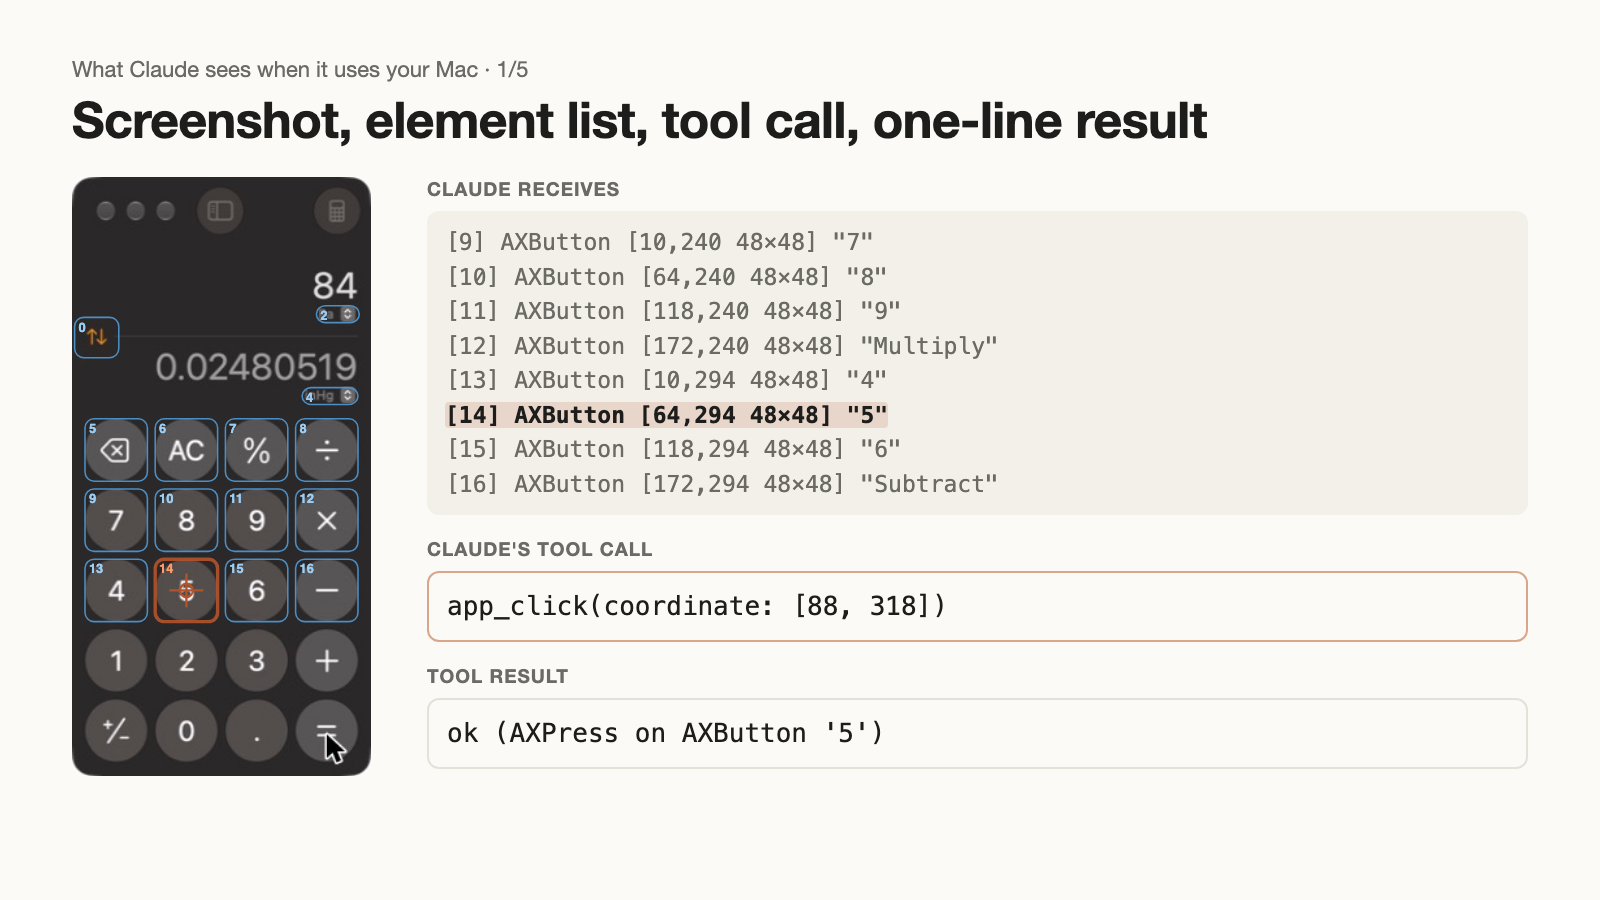
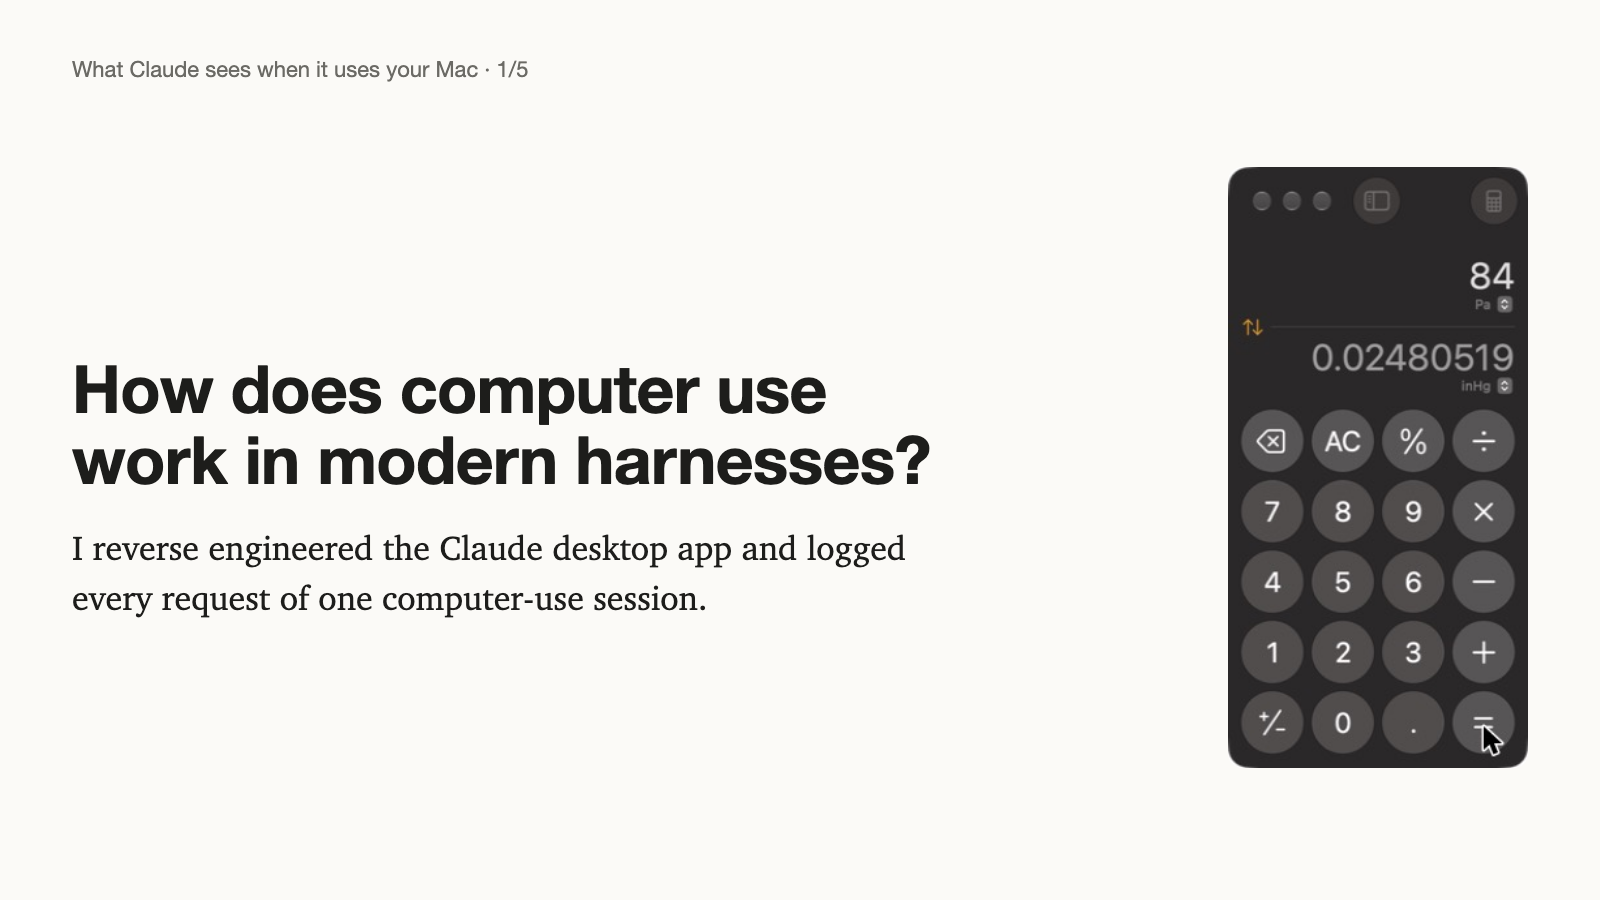
Rework the tweet thread and its images

diff --git a/docs/tweets/cards.html b/docs/tweets/cards.html
@@ -39,8 +39,20 @@ pre{font:24px/1.5 ui-monospace,Menlo,monospace;margin:0;white-space:pre-wrap}
 .fig2 .lab{text-anchor:start;font:12px -apple-system,sans-serif;fill:var(--fg)}.fig2 .lab.mid{text-anchor:middle;fill:var(--muted)}
 .fig2 .n{font-weight:700;fill:var(--accent)}
 .fig2 text{font-size:13px}
+.title1{font-size:66px;line-height:1.08;margin:40px 0 28px;max-width:900px}
+.lead{font:34px/1.45 Charter,Georgia,serif;max-width:860px;margin:0}
+.tools{display:grid;grid-template-columns:330px 1fr;gap:16px 28px;align-items:baseline;margin-top:8px;font-size:27px}
+.tools code{font:25px ui-monospace,Menlo,monospace;border:1.5px solid #e2b9a5;border-radius:999px;padding:3px 14px;color:var(--accent);justify-self:start}
+.tools span{color:var(--fg)}
 </style></head><body>
-<section class="card" id="c1"><div class="kick">What Claude sees when it uses your Mac · 1/5</div><h1>Screenshot, element list, tool call, one-line result</h1><div class="row"><div class="shot" style="width:299.0px;height:599.3000000000001px"><img src="../img/trace-shot-2.jpg"><svg viewBox="0 0 230 461"><rect x="2" y="108" width="34" height="31" rx="7" class="bx"/><text x="5" y="119" class="bl">0</text><rect x="188" y="99" width="33" height="13" rx="7" class="bx"/><text x="191" y="110" class="bl">2</text><rect x="177" y="162" width="43" height="13" rx="7" class="bx"/><text x="180" y="173" class="bl">4</text><rect x="10" y="186" width="48" height="48" rx="7" class="bx"/><text x="13" y="197" class="bl">5</text><rect x="64" y="186" width="48" height="48" rx="7" class="bx"/><text x="67" y="197" class="bl">6</text><rect x="118" y="186" width="48" height="48" rx="7" class="bx"/><text x="121" y="197" class="bl">7</text><rect x="172" y="186" width="48" height="48" rx="7" class="bx"/><text x="175" y="197" class="bl">8</text><rect x="10" y="240" width="48" height="48" rx="7" class="bx"/><text x="13" y="251" class="bl">9</text><rect x="64" y="240" width="48" height="48" rx="7" class="bx"/><text x="67" y="251" class="bl">10</text><rect x="118" y="240" width="48" height="48" rx="7" class="bx"/><text x="121" y="251" class="bl">11</text><rect x="172" y="240" width="48" height="48" rx="7" class="bx"/><text x="175" y="251" class="bl">12</text><rect x="10" y="294" width="48" height="48" rx="7" class="bx"/><text x="13" y="305" class="bl">13</text><rect x="64" y="294" width="48" height="48" rx="7" class="bx hot"/><text x="67" y="305" class="bl hot">14</text><rect x="118" y="294" width="48" height="48" rx="7" class="bx"/><text x="121" y="305" class="bl">15</text><rect x="172" y="294" width="48" height="48" rx="7" class="bx"/><text x="175" y="305" class="bl">16</text><circle cx="88" cy="318" r="5" class="tgt"/><line x1="88" y1="305" x2="88" y2="331" class="tgt"/><line x1="75" y1="318" x2="101" y2="318" class="tgt"/></svg></div>
+<section class="card" id="c1"><div class="kick">What Claude sees when it uses your Mac · 1/5</div><div class="row" style="align-items:center"><div class="col"><h1 class="title1">How does computer use work in modern harnesses?</h1><p class="lead">I reverse engineered the Claude desktop app and logged every request of one computer-use session.</p></div><div class="shot" style="width:300px;height:601px"><img src="../img/trace-shot-2.jpg" alt="Calculator, as Claude saw it"></div></div></section><section class="card" id="c2"><div class="kick">What Claude sees when it uses your Mac · 2/5</div><h1>Computer use is an MCP server inside the desktop app</h1><div class="tools">
+<code>request_access</code><span>ask the user to approve an app</span>
+<code>open_application</code><span>open the app</span>
+<code>app_screenshot</code><span>screenshot of its window, plus a numbered list of its buttons</span>
+<code>app_click</code><span>click a button from the list, or a pixel coordinate</span>
+<code>app_type</code><span>type text into the app</span>
+<code>app_batch</code><span>run a list of these actions in one call</span>
+</div><p class="say small">27 tools in all, including scrolling, menus, dragging and the clipboard.</p></section><section class="card" id="c3"><div class="kick">What Claude sees when it uses your Mac · 3/5</div><h1>A screenshot comes with a list of the app's buttons</h1><div class="row"><div class="shot" style="width:299.0px;height:599.3000000000001px"><img src="../img/trace-shot-2.jpg"><svg viewBox="0 0 230 461"><rect x="2" y="108" width="34" height="31" rx="7" class="bx"/><text x="5" y="119" class="bl">0</text><rect x="188" y="99" width="33" height="13" rx="7" class="bx"/><text x="191" y="110" class="bl">2</text><rect x="177" y="162" width="43" height="13" rx="7" class="bx"/><text x="180" y="173" class="bl">4</text><rect x="10" y="186" width="48" height="48" rx="7" class="bx"/><text x="13" y="197" class="bl">5</text><rect x="64" y="186" width="48" height="48" rx="7" class="bx"/><text x="67" y="197" class="bl">6</text><rect x="118" y="186" width="48" height="48" rx="7" class="bx"/><text x="121" y="197" class="bl">7</text><rect x="172" y="186" width="48" height="48" rx="7" class="bx"/><text x="175" y="197" class="bl">8</text><rect x="10" y="240" width="48" height="48" rx="7" class="bx"/><text x="13" y="251" class="bl">9</text><rect x="64" y="240" width="48" height="48" rx="7" class="bx"/><text x="67" y="251" class="bl">10</text><rect x="118" y="240" width="48" height="48" rx="7" class="bx"/><text x="121" y="251" class="bl">11</text><rect x="172" y="240" width="48" height="48" rx="7" class="bx"/><text x="175" y="251" class="bl">12</text><rect x="10" y="294" width="48" height="48" rx="7" class="bx"/><text x="13" y="305" class="bl">13</text><rect x="64" y="294" width="48" height="48" rx="7" class="bx hot"/><text x="67" y="305" class="bl hot">14</text><rect x="118" y="294" width="48" height="48" rx="7" class="bx"/><text x="121" y="305" class="bl">15</text><rect x="172" y="294" width="48" height="48" rx="7" class="bx"/><text x="175" y="305" class="bl">16</text><circle cx="88" cy="318" r="5" class="tgt"/><line x1="88" y1="305" x2="88" y2="331" class="tgt"/><line x1="75" y1="318" x2="101" y2="318" class="tgt"/></svg></div>
         <div class="col"><div class="k">Claude receives</div><pre class="ax"><span class="ln">[9] AXButton [10,240 48×48] "7"</span>
 <span class="ln">[10] AXButton [64,240 48×48] "8"</span>
 <span class="ln">[11] AXButton [118,240 48×48] "9"</span>
@@ -50,15 +62,7 @@ pre{font:24px/1.5 ui-monospace,Menlo,monospace;margin:0;white-space:pre-wrap}
 <span class="ln">[15] AXButton [118,294 48×48] "6"</span>
 <span class="ln">[16] AXButton [172,294 48×48] "Subtract"</span></pre>
         <div class="k">Claude's tool call</div><pre class="io out">app_click(coordinate: [88, 318])</pre>
-        <div class="k">Tool result</div><pre class="io">ok (AXPress on AXButton '5')</pre></div></div></section><section class="card" id="c2"><div class="kick">What Claude sees when it uses your Mac · 2/5</div><h1>The click is an accessibility press, not a mouse event</h1><div class="row"><div class="shot" style="width:299.0px;height:599.3000000000001px"><img src="../img/trace-shot-2.jpg"><svg viewBox="0 0 230 461"><rect x="2" y="108" width="34" height="31" rx="7" class="bx"/><text x="5" y="119" class="bl">0</text><rect x="188" y="99" width="33" height="13" rx="7" class="bx"/><text x="191" y="110" class="bl">2</text><rect x="177" y="162" width="43" height="13" rx="7" class="bx"/><text x="180" y="173" class="bl">4</text><rect x="10" y="186" width="48" height="48" rx="7" class="bx"/><text x="13" y="197" class="bl">5</text><rect x="64" y="186" width="48" height="48" rx="7" class="bx"/><text x="67" y="197" class="bl">6</text><rect x="118" y="186" width="48" height="48" rx="7" class="bx"/><text x="121" y="197" class="bl">7</text><rect x="172" y="186" width="48" height="48" rx="7" class="bx"/><text x="175" y="197" class="bl">8</text><rect x="10" y="240" width="48" height="48" rx="7" class="bx"/><text x="13" y="251" class="bl">9</text><rect x="64" y="240" width="48" height="48" rx="7" class="bx"/><text x="67" y="251" class="bl">10</text><rect x="118" y="240" width="48" height="48" rx="7" class="bx"/><text x="121" y="251" class="bl">11</text><rect x="172" y="240" width="48" height="48" rx="7" class="bx"/><text x="175" y="251" class="bl">12</text><rect x="10" y="294" width="48" height="48" rx="7" class="bx"/><text x="13" y="305" class="bl">13</text><rect x="64" y="294" width="48" height="48" rx="7" class="bx hot"/><text x="67" y="305" class="bl hot">14</text><rect x="118" y="294" width="48" height="48" rx="7" class="bx"/><text x="121" y="305" class="bl">15</text><rect x="172" y="294" width="48" height="48" rx="7" class="bx"/><text x="175" y="305" class="bl">16</text><circle cx="88" cy="318" r="5" class="tgt"/><line x1="88" y1="305" x2="88" y2="331" class="tgt"/><line x1="75" y1="318" x2="101" y2="318" class="tgt"/></svg></div>
-        <div class="col"><div class="k">Claude's tool call</div><pre class="io out">app_click(coordinate: [88, 318])</pre>
-        <div class="k">Element that macOS returned for that point</div>
-        <div class="tree"><div>AXWindow <span>"Calculator"</span></div><div>AXGroup</div><div>AXSplitGroup</div><div>AXGroup</div><div>AXGroup</div><div class="hot">AXButton <span>"5"</span> · element [14] · action: AXPress</div></div>
-        <p class="say">The server performs the press action of the element at (88, 318). The mouse pointer does not move, so the user can keep using other apps.</p></div></div></section><section class="card" id="c3"><div class="kick">What Claude sees when it uses your Mac · 3/5</div><h1>Computer-use tool definitions are added on request</h1><div class="row two"><div class="panel"><div class="k">Request 1</div><p class="say"><b>47 tools.</b> Computer use appears only as names in a list of deferred tools, plus 6k characters of instructions in the system message.</p>
-        <div class="k">Claude's reply</div><pre class="io">Skill("anthropic-skills:computer-use")
-ToolSearch("computer-use")</pre></div>
-        <div class="panel"><div class="k">Request 2</div><p class="say"><b>74 tools.</b> 27 computer-use definitions, about 60k characters, and a 12k-character skill.</p>
-        <div class="names"><span>app_ax_find</span> <span>app_batch</span> <span>app_bring_to_current_space</span> <span>app_click</span> <span>app_drag</span> <span>app_focus</span> <span>app_key</span> <span>app_list_windows</span> <span>app_menu</span> <span>app_release</span> <span>app_screenshot</span> <span>app_scroll</span> <span>app_type</span> <span>app_zoom</span> <span>computer_batch</span> <span>list_apps</span> <span>list_granted_applications</span> <span>open_application</span> <span>read_clipboard</span> <span>release_full_control</span> <span>request_access</span> <span>request_full_control</span> <span>request_teach_access</span> <span>switch_display</span> <span>teach_batch</span> <span>teach_step</span> <span>write_clipboard</span></div></div></div></section><section class="card" id="c4"><div class="kick">What Claude sees when it uses your Mac · 4/5</div><h1>Seven clicks and a screenshot in one tool call</h1><div class="row two"><div class="panel" style="flex:0 0 600px"><div class="k">Claude's tool call</div><pre class="ax big">app_batch([
+        <div class="k">Tool result</div><pre class="io">ok (AXPress on AXButton '5')</pre></div></div></section><section class="card" id="c4"><div class="kick">What Claude sees when it uses your Mac · 4/5</div><h1>Seven clicks and a screenshot in one tool call</h1><div class="row two"><div class="panel" style="flex:0 0 600px"><div class="k">Claude's tool call</div><pre class="ax big">app_batch([
   click(88, 210)  <span class="ln">// Clear</span>
   click(88, 210)  <span class="ln">// All Clear</span>
   click(34, 375)  <span class="ln">// 1</span>
@@ -72,7 +76,7 @@ ToolSearch("computer-use")</pre></div>
 <div class="br" style="grid-template-columns:230px 1fr;margin-top:-6px"><span></span><span class="bv"><b>685 ms</b> in one app_batch call</span></div>
 <div class="br" style="grid-template-columns:230px 1fr;margin-top:22px"><span class="bn">one model turn</span><span class="bt"><span style="width:17.86%"></span><span class="rd" style="width:82.14%"></span></span></div>
 <div class="br" style="grid-template-columns:230px 1fr;margin-top:-6px"><span></span><span class="bv"><b>2.5 to 14 s</b> per request in this session</span></div>
-</div><p class="say">With one click per model turn, the same work would have needed eight turns. The batch works because one screenshot and its element list are enough to plan every click.</p></div></div></section><section class="card" id="c5"><div class="kick">What Claude sees when it uses your Mac · 5/5</div><h1>Processes involved in one click</h1><div class="fig2"><svg viewBox="0 0 760 340" role="img" aria-label="Processes involved in one click and the messages between them">
+</div><p class="say">With one click per model turn, the same work would have needed eight turns. The batch works because one screenshot and its element list are enough to plan every click.</p></div></div></section><section class="card" id="c5"><div class="kick">What Claude sees when it uses your Mac · 5/5</div><h1>The desktop app runs the Claude Code CLI</h1><div class="fig2"><svg viewBox="0 0 760 340" role="img" aria-label="Processes involved in one click and the messages between them">
   <defs><marker id="ar" viewBox="0 0 10 10" refX="9" refY="5" markerWidth="6" markerHeight="6" orient="auto-start-reverse"><path d="M0,0 L10,5 L0,10 z" class="ah"/></marker></defs>
   <g class="box"><rect x="8" y="20" width="150" height="70" rx="10"/><text x="83" y="50" class="t1">Anthropic API</text><text x="83" y="70" class="t2">runs the model</text></g>
   <g class="box"><rect x="8" y="170" width="150" height="90" rx="10"/><text x="83" y="200" class="t1">Claude Code</text><text x="83" y="220" class="t2">the claude process,</text><text x="83" y="236" class="t2">one per session</text></g>
@@ -91,6 +95,6 @@ ToolSearch("computer-use")</pre></div>
   <text x="522" y="224" class="lab"><tspan class="n">4</tspan> probe(…)</text>
   <path d="M674,170 V90" class="ln" marker-start="url(#ar)" marker-end="url(#ar)"/>
   <text x="684" y="122" class="lab"><tspan class="n">5</tspan> hit-test,</text><text x="684" y="138" class="lab">AXPress</text>
-</svg></div><p class="say small">The click took 117 ms from Claude Code's request to the tool result, 43 ms of it in the native call that finds and presses the button.</p></section>
+</svg></div><p class="say small">The app runs the same Claude Code CLI you use in a terminal. Claude Code talks to the Anthropic API; the computer-use MCP server calls a native library that forwards its requests to macOS.</p></section>
 <script>const n=new URLSearchParams(location.search).get("card")||"1";document.getElementById("c"+n).classList.add("on");</script>
 </body></html>

diff --git a/docs/tweets/index.html b/docs/tweets/index.html
@@ -10,16 +10,14 @@ section{border-top:1px solid var(--rule);padding:18px 0 22px}
 p{font-size:17px;margin:.4em 0 .8em;white-space:pre-wrap}
 img{width:100%;height:auto;border:1px solid var(--rule);border-radius:14px;display:block}
 a{color:var(--accent);font-size:14px;display:inline-block;margin-top:6px}
-</style></head><body><main><h1>Thread draft</h1><p class="sub">Five posts, one 1600×900 image each, built from the same logged session as the post. Character counts follow X's rules: a link counts as 23 and an emoji as 2.</p><section><div class="n">1/5 <span>275/280</span></div><p>I wanted to add computer use to my own LLM harness, so I logged what the Claude desktop app sends while Claude uses a Mac.
+</style></head><body><main><h1>Thread draft</h1><p class="sub">Five posts, one 1600×900 image each, built from the same logged session as the post. Character counts follow X's rules: a link counts as 23 and an emoji as 2.</p><section><div class="n">1/5 <span>204/280</span></div><p>Do you know how computer use works in modern harnesses? I wasn&#x27;t sure, so I reverse engineered the Claude desktop app and logged every request it made while Claude used my Mac.
 
-Short version: an MCP server sends the model a screenshot plus a numbered list of buttons from the macOS accessibility API.
+https://runfme.github.io/claude-computer-use-trace/ 🧵</p><img src="tweet-1.png?v=2" alt="image for tweet 1"><a href="tweet-1.png" download>Download image</a></section><section><div class="n">2/5 <span>246/280</span></div><p>Computer use is just a special MCP server bundled with the Claude desktop app.
 
-https://runfme.github.io/claude-computer-use-trace/ 🧵</p><img src="tweet-1.png" alt="image for tweet 1"><a href="tweet-1.png" download>Download image</a></section><section><div class="n">2/5 <span>274/280</span></div><p>To click, Claude sends a list number or a pixel coordinate, here (88, 318), the centre of button [14].
+Through it, the model can ask to open an application, get a screenshot with numbered buttons, and click somewhere: on a button from the list or at a pixel coordinate.</p><img src="tweet-2.png?v=2" alt="image for tweet 2"><a href="tweet-2.png" download>Download image</a></section><section><div class="n">3/5 <span>219/280</span></div><p>When the model asks for a screenshot, it gets the image plus a list of the app&#x27;s buttons, each with its bounding box.
 
-The server doesn&#x27;t move the mouse. It finds the accessibility element at that point and asks macOS to press it. The tool result is one line: ok (AXPress on AXButton &#x27;5&#x27;).</p><img src="tweet-2.png" alt="image for tweet 2"><a href="tweet-2.png" download>Download image</a></section><section><div class="n">3/5 <span>241/280</span></div><p>Claude doesn&#x27;t start with the computer-use tools. The first request has only their names.
+The list comes from the old macOS accessibility API, the same one screen readers like VoiceOver use.</p><img src="tweet-3.png?v=2" alt="image for tweet 3"><a href="tweet-3.png" download>Download image</a></section><section><div class="n">4/5 <span>243/280</span></div><p>A big reason computer use works well: Claude can batch clicks.
 
-Its first move is to call ToolSearch, which loads all 27 tool definitions into the next request, and to load a skill: a text guide on how to use them.</p><img src="tweet-3.png" alt="image for tweet 3"><a href="tweet-3.png" download>Download image</a></section><section><div class="n">4/5 <span>262/280</span></div><p>The tool that matters most is app_batch: one call with a list of actions.
+Here it sent seven clicks and a screenshot in one tool call, and the server ran them in 685 ms. One model turn took 2.5 to 14 s, so one click per turn would have been much slower.</p><img src="tweet-4.png?v=2" alt="image for tweet 4"><a href="tweet-4.png" download>Download image</a></section><section><div class="n">5/5 <span>279/280</span></div><p>The desktop app contains the Agent SDK and the computer-use MCP server, and runs the Claude Code CLI, basically the same one you use in a terminal. The CLI talks to the Anthropic API; the MCP server calls a native library that forwards requests to macOS.
 
-Claude sent seven clicks and a screenshot in a single call, and the server ran all eight in 685 ms. A single model turn took 2.5 to 14 s, so one click per turn would have been far slower.</p><img src="tweet-4.png" alt="image for tweet 4"><a href="tweet-4.png" download>Download image</a></section><section><div class="n">5/5 <span>273/280</span></div><p>The desktop app is a wrapper: it runs the Claude Code CLI and talks to it over stdin/stdout. The computer-use server runs inside the app&#x27;s own process and calls a Swift library for the accessibility API.
-
-Every request is in the post, with a viewer: https://runfme.github.io/claude-computer-use-trace/</p><img src="tweet-5.png" alt="image for tweet 5"><a href="tweet-5.png" download>Download image</a></section></main></body></html>
+https://runfme.github.io/claude-computer-use-trace/</p><img src="tweet-5.png?v=2" alt="image for tweet 5"><a href="tweet-5.png" download>Download image</a></section></main></body></html>

diff --git a/docs/index.html b/docs/index.html
@@ -53,7 +53,7 @@ details.appendix p,details.appendix li{font-size:16px}
 .foot{margin-top:3em;font:13px -apple-system,sans-serif;color:var(--muted)}
 @media (max-width:640px){body{font-size:17px}h1{font-size:1.8rem}.fig1 .f1{flex-direction:column}.shotwrap,.shotwrap img,.shotwrap svg{width:200px;height:401px}.fig2{overflow-x:auto}.fig2 svg{min-width:600px}}
 </style>
-<link rel="stylesheet" href="scaffold.css?v=1793648498">
+<link rel="stylesheet" href="scaffold.css?v=1793648945">
 </head>
 <body>
 <main>
@@ -148,8 +148,8 @@ details.appendix p,details.appendix li{font-size:16px}
 </details>
 <p class="foot">Logged on November 1, 2026, with Claude desktop app 4.4212, Claude Code 2.1.309 and macOS 27. The viewer's data is the real request log of one session, about 400 KB of JSON.</p>
 </main>
-<script>window.BUILD = "1793648498";</script>
-<script src="scaffold.js?v=1793648498"></script>
+<script>window.BUILD = "1793648945";</script>
+<script src="scaffold.js?v=1793648945"></script>
 <script>
 if (new URLSearchParams(location.search).has("live")) setInterval(() => fetch("build-id.txt", {cache: "no-store"}).then(r => r.text()).then(t => { if (t.trim() !== window.BUILD) location.reload(); }).catch(() => {}), 1000);
 </script>
